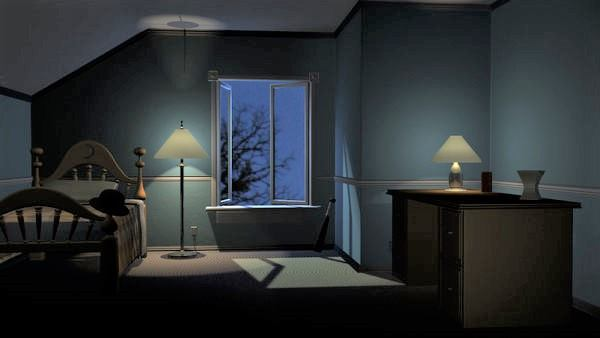
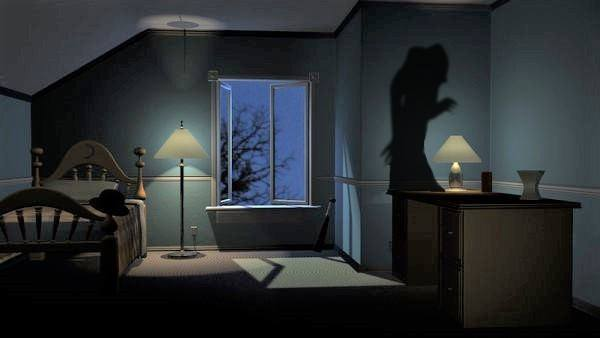
fix text box spacing, background image, button font

Changed region(s): [[0.63, 0.1183, 0.78, 0.5917]]

diff --git a/docs/index.html b/docs/index.html
@@ -13,81 +13,97 @@
   </head>
   <body>
     <div class="container">
-      <img src="background.jpg" alt="dark room" />
+      <img class="background" src="background.jpg" alt="dark room" />
       <section class="one">
         <button>1</button>
         <article>
-          Whining, groaning the curved staircase cries,<br />
-          Each step’s pressure release whispers that rise.<br />
-          Somber, black corridors embrace the hushed chatter,<br />
-          Howling winds deafen with raindrops that clatter.
+          <div>
+            Whining, groaning the curved staircase cries,<br />
+            Each step’s pressure release whispers that rise.<br />
+            Somber, black corridors embrace the hushed chatter,<br />
+            Howling winds deafen with raindrops that clatter.
+          </div>
         </article>
       </section>
       <section class="two">
         <button>2</button>
         <article>
-          Shadowy figures flow into the room, <br />
-          Tiny hands clasping, meager voice cloaked in doom. <br />
-          Inquisitive, curious, cautionary and knowing,<br />
-          Dark tales unwoven, eyes glistening and glowing.
+          <div>
+            Shadowy figures flow into the room, <br />
+            Tiny hands clasping, meager voice cloaked in doom. <br />
+            Inquisitive, curious, cautionary and knowing,<br />
+            Dark tales unwoven, eyes glistening and glowing.
+          </div>
         </article>
       </section>
       <section class="three">
-        <button>3</button>
+        <button>4</button>
         <article>
-          Moonlight drapes the bed where two figures sit down,<br />
-          Large figure is calm, present, curled lips in a frown. <br />
-          His shadow pulls back, begins gliding away,<br />
-          Followed by urgent pleas and bargains to stay.
+          <div>
+            Moonlight drapes the bed where two figures sit down,<br />
+            Large figure is calm, present, curled lips in a frown. <br />
+            His shadow pulls back, begins gliding away,<br />
+            Followed by urgent pleas and bargains to stay.
+          </div>
         </article>
       </section>
       <section class="four">
-        <button>4</button>
+        <button>3</button>
         <article>
-          Hats, cloaks and costumes bring fables to life,<br />
-          Lairs, nests and dens are home to the rife. <br />
-          Voice swells in crescendo over the hollow storm sounds,<br />
-          Bouncing and shrieking in energy that bounds.
+          <div>
+            Hats, cloaks and costumes bring fables to life,<br />
+            Lairs, nests and dens are home to the rife. <br />
+            Voice swells in crescendo over the hollow storm sounds,<br />
+            Bouncing and shrieking in energy that bounds.
+          </div>
         </article>
       </section>
       <section class="five">
         <button>5</button>
         <article>
-          This entity is unknown, unrelenting and feared, <br />
-          The darkness is haunted with rituals revered.<br />
-          Biting, and chewing, drinking til’ death,<br />
-          It’s victims disintegrate with a painful last breath.
+          <div>
+            This entity is unknown, unrelenting and feared, <br />
+            The darkness is haunted with rituals revered.<br />
+            Biting, and chewing, drinking til’ death,<br />
+            It’s victims disintegrate with a painful last breath.
+          </div>
         </article>
       </section>
       <section class="six">
         <button>6</button>
         <article>
-          Hung in the closet, abandoned skeletons will sway,<br />
-          Flesh and meat stripped, no sign of decay.<br />
-          Click-clack, rattle goes the bones in the breeze, <br />
-          Sinister windchimes, drooping in ominous trees.
+          <div>
+            Hung in the closet, abandoned skeletons will sway,<br />
+            Flesh and meat stripped, no sign of decay.<br />
+            Click-clack, rattle goes the bones in the breeze, <br />
+            Sinister windchimes, drooping in ominous trees.
+          </div>
         </article>
       </section>
       <section class="seven">
         <button>7</button>
         <article>
-          This menacing character has a title and names,<br />
-          “It’s the click-clack rattle bag!” the little figure exclaims.<br />
-          “He’s everywhere, and nowhere, he’s alive, and in your dreams,<br />
-          He feeds off the fear embedded in your screams.”
+          <div>
+            This menacing character has a title and names,<br />
+            “It’s the click-clack rattle bag!” the little figure exclaims.<br />
+            “He’s everywhere, and nowhere, he’s alive, and in your dreams,<br />
+            He feeds off the fear embedded in your screams.”
+          </div>
         </article>
       </section>
       <section class="eight">
         <button>8</button>
         <article>
-          For years as the shadow tucked in the corners of the bed, <br />
-          I never meant to harm, haunt or leave impending dread.<br />
-          I do not bite, eat, drink or chew. I simply protect,<br />
-          But the little figure has only returned lies and neglect. <br />
-          And yet, I will stay and watch as he shivers,<br />
-          Grasping at the covers with small hands that quiver.<br />
-          In the corners I lurk as the night sky descends, <br />
-          The “click-clack rattle bag,” a lonely shadow with no friends.
+          <div>
+            For years as the shadow tucked in the corners of the bed, <br />
+            I never meant to harm, haunt or leave impending dread.<br />
+            I do not bite, eat, drink or chew. I simply protect,<br />
+            But the little figure has only returned lies and neglect. <br />
+            And yet, I will stay and watch as he shivers,<br />
+            Grasping at the covers with small hands that quiver.<br />
+            In the corners I lurk as the night sky descends, <br />
+            The “click-clack rattle bag,” a lonely shadow with no friends.
+          </div>
         </article>
       </section>
     </div>

diff --git a/docs/style.css b/docs/style.css
@@ -10,6 +10,7 @@ body {
   display: flex;
   justify-content: center;
   background-color: black;
+  font-family: "Courgette", cursive;
 }
 img {
   width: auto;
@@ -18,30 +19,47 @@ img {
 }
 
 button {
+  font-family: "Courgette", cursive;
   position: absolute;
   display: block;
-  opacity: 0.2;
-  z-index: 1;
-  background-color: white;
+  opacity: 0.4;
+  z-index: 2;
+  font-size: 1.5em;
+  background-color: transparent;
+  color: white;
+  border: none;
+}
+
+button:focus {
+  outline: none;
+}
+
+section article div {
+  pointer-events: none;
+  border-radius: 4px;
+  box-shadow: 0px 0px 10px black;
+  background-color: black;
+  padding: 2em;
+  line-height: 1.5em;
 }
 
 section article {
+  display: flex;
+  justify-content: center;
+  align-items: center;
   position: absolute;
   top: 0;
   left: 0;
-  margin: 20vh;
-  background-color: black;
+  height: 100vh;
+  width: 100vw;
+  background-color: rgba(0, 0, 0, 0.6);
   opacity: 0;
   color: whitesmoke;
-  transition: opacity 1000ms ease;
+  transition: opacity 1500ms ease-out;
   pointer-events: none;
-  font-family: "Courgette", cursive;
-  font-size: 1.5em;
-  padding: 1em;
-  border-radius: 4px;
-  z-index: 2;
+  font-size: 1.7em;
   outline: none;
-  box-shadow: 5px 5px 50px black;
+  z-index: 4;
 }
 
 section.one button {
@@ -94,8 +112,8 @@ section.seven button {
 }
 
 section.eight button {
-  top: 70%;
-  left: 70%;
+  top: 30%;
+  left: 66%;
   height: 7%;
   width: 7%;
 }
@@ -103,4 +121,12 @@ section.eight button {
 .container {
   position: relative;
   width: max-content;
+}
+
+.shadow {
+  position: absolute;
+  left: 57%;
+  top: 10%;
+  height: 50%;
+  z-index: 1;
 }
